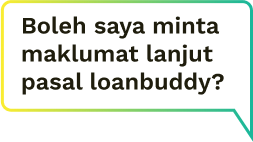
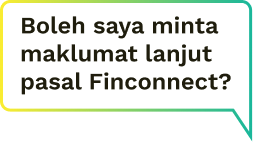
new chat bubble

diff --git a/boleh-percaya-ke-finconnect.html b/boleh-percaya-ke-finconnect.html
@@ -468,14 +468,14 @@
                       <ul class="social_links unordered_list">
                         <li>Follow us: </li>
                         <li>
-                          <a href="https://www.facebook.com/" target="_blank"><i class="fab fa-facebook-f"></i></a>
+                          <a href="https://www.instagram.com/Finconnectteam" target="_blank"><i class="fab fa-facebook-f"></i></a>
                         </li>
                         <li>
-                          <a href="https://www.instagram.com/" target="_blank"><i class="fab fa-instagram"></i></a>
+                          <a href="https://www.instagram.com/finconnectteam/" target="_blank"><i class="fab fa-instagram"></i></a>
                         </li>
                          <li>
                           <!-- Embed TikTok SVG directly -->
-                          <a href="https://www.tiktok.com/" target="_blank">
+                          <a href="https://www.tiktok.com/@finconnectteam" target="_blank">
                             <svg fill="#1F1D0D" width="24" height="24" viewBox="0 0 24 24" xmlns="http://www.w3.org/2000/svg">
                               <path d="M19.589 6.686a4.793 4.793 0 0 1-3.77-4.245V2h-3.445v13.672a2.896 2.896 0 0 1-5.201 1.743l-.002-.001.002.001a2.895 2.895 0 0 1 3.183-4.51v-3.5a6.329 6.329 0 0 0-5.394 10.692 6.33 6.33 0 0 0 10.857-4.424V8.687a8.182 8.182 0 0 0 4.773 1.526V6.79a4.831 4.831 0 0 1-1.003-.104z"/>
                             </svg>
@@ -895,14 +895,14 @@
 
                   <ul class="social_links unordered_list">
                     <li>
-                      <a href="https://www.facebook.com/" target="_blank"><i class="fab fa-facebook-f"></i></a>
+                      <a href="https://www.instagram.com/Finconnectteam" target="_blank"><i class="fab fa-facebook-f"></i></a>
                     </li>
                     <li>
-                      <a href="https://www.instagram.com/" target="_blank"><i class="fab fa-instagram"></i></a>
+                      <a href="https://www.instagram.com/finconnectteam/" target="_blank"><i class="fab fa-instagram"></i></a>
                     </li>
                     <li>
                       <!-- Embed TikTok SVG directly -->
-                      <a href="https://www.tiktok.com/" target="_blank">
+                      <a href="https://www.tiktok.com/@finconnectteam" target="_blank">
                         <svg fill="#1F1D0D" width="24" height="24" viewBox="0 0 24 24" xmlns="http://www.w3.org/2000/svg">
                           <path d="M19.589 6.686a4.793 4.793 0 0 1-3.77-4.245V2h-3.445v13.672a2.896 2.896 0 0 1-5.201 1.743l-.002-.001.002.001a2.895 2.895 0 0 1 3.183-4.51v-3.5a6.329 6.329 0 0 0-5.394 10.692 6.33 6.33 0 0 0 10.857-4.424V8.687a8.182 8.182 0 0 0 4.773 1.526V6.79a4.831 4.831 0 0 1-1.003-.104z"/>
                         </svg>

diff --git a/index.html b/index.html
@@ -402,9 +402,9 @@
                             </div>
                           </div>
                           <div class="child_image image_wrap_12">
-                            <!-- <div class="layer" data-depth="0.4">
+                            <div class="layer" data-depth="0.4">
                               <img src="assets/images/banner/home-mohon/chatbox-mohon-2.webp" loading="lazy">
-                            </div> -->
+                            </div>
                           </div>
                         </div>
                       </div>

diff --git a/faq.html b/faq.html
@@ -253,7 +253,7 @@
                     <img class="faq-floating-1" src="assets/images/banner/chatbox2-faq.png" >
                   </div>
                   <div class="layer" data-depth="0.3">
-                    <!-- <img class="faq-floating-2" src="assets/images/banner/chatbox1-faq.png" > -->
+                    <img class="faq-floating-2" src="assets/images/banner/chatbox1-faq.png" >
                   </div>
                 </div>
                 
